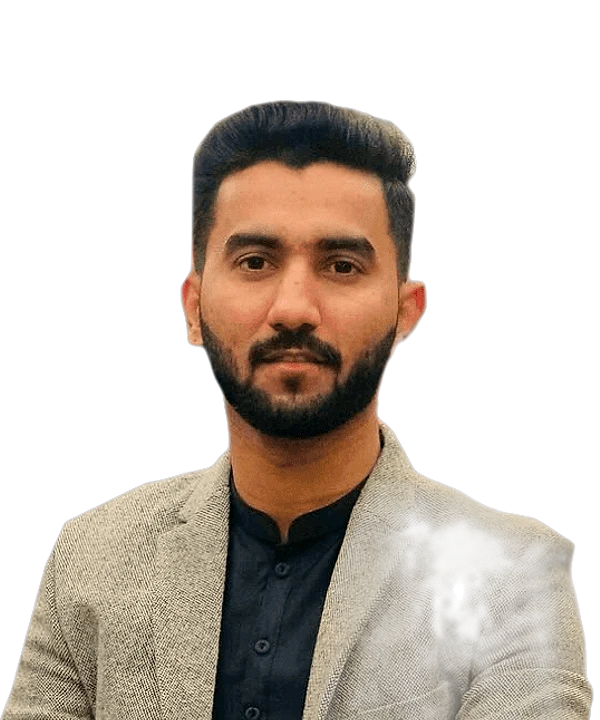
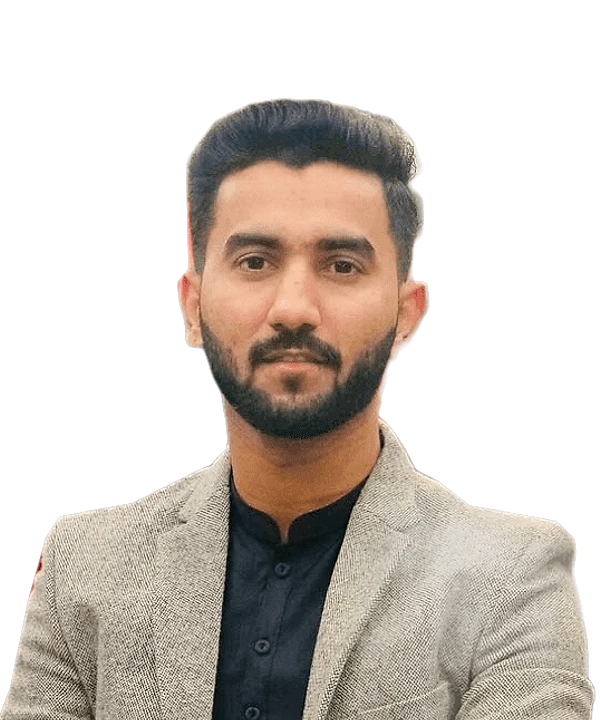
Brighten leadership portraits and restore full face and shoulder outlines

diff --git a/about.html b/about.html
@@ -113,7 +113,7 @@
 
 <section class="sec sec--alt" id="team"><div class="wrap">
   <header class="sec__head"><p class="label"><span data-i18n="tm.eyebrow">Leadership</span></p><h2 class="split " data-i18n="tm.h2">Meet the team behind IT Oasis</h2></header>
-  <div class="team"><article class="person reveal" data-d="0"><div class="person__photo"><img src="assets/team-irfan.webp" alt="Muhammad Irfan" width="600" height="720" loading="lazy"></div><div class="person__info"><h3>Muhammad Irfan</h3><p data-i18n="tm.1.r" class="person__role">Founder</p><p data-i18n="tm.1.d" class="person__bio">Founded IT Oasis UAE to bring practical, well-engineered technology to GCC businesses.</p></div></article><article class="person reveal" data-d="1"><div class="person__photo"><img src="assets/team-zeeshan.webp" alt="Muhammad Zeeshan" width="600" height="720" loading="lazy"></div><div class="person__info"><h3>Muhammad Zeeshan</h3><p data-i18n="tm.2.r" class="person__role">CEO</p><p data-i18n="tm.2.d" class="person__bio">Leads delivery and client partnerships, making sure every project ties technology to business results.</p></div></article><article class="person reveal" data-d="2"><div class="person__photo"><img src="assets/team-fahad.webp" alt="Rana Muhammad Fahad" width="600" height="720" loading="lazy"></div><div class="person__info"><h3>Rana Muhammad Fahad</h3><p data-i18n="tm.3.r" class="person__role">CTO</p><p data-i18n="tm.3.d" class="person__bio">Architects the systems behind our clients: networks, platforms, automation and AI infrastructure.</p></div></article></div>
+  <div class="team"><article class="person reveal" data-d="0"><div class="person__photo person__photo--full"><img src="assets/team-irfan.webp" alt="Muhammad Irfan" width="600" height="720" loading="lazy"></div><div class="person__info"><h3>Muhammad Irfan</h3><p data-i18n="tm.1.r" class="person__role">Founder</p><p data-i18n="tm.1.d" class="person__bio">Founded IT Oasis UAE to bring practical, well-engineered technology to GCC businesses.</p></div></article><article class="person reveal" data-d="1"><div class="person__photo person__photo--full"><img src="assets/team-zeeshan.webp" alt="Muhammad Zeeshan" width="600" height="720" loading="lazy"></div><div class="person__info"><h3>Muhammad Zeeshan</h3><p data-i18n="tm.2.r" class="person__role">CEO</p><p data-i18n="tm.2.d" class="person__bio">Leads delivery and client partnerships, making sure every project ties technology to business results.</p></div></article><article class="person reveal" data-d="2"><div class="person__photo"><img src="assets/team-fahad.webp" alt="Rana Muhammad Fahad" width="600" height="720" loading="lazy"></div><div class="person__info"><h3>Rana Muhammad Fahad</h3><p data-i18n="tm.3.r" class="person__role">CTO</p><p data-i18n="tm.3.d" class="person__bio">Architects the systems behind our clients: networks, platforms, automation and AI infrastructure.</p></div></article></div>
 </div></section>
 
 <section class="sec sec--ink geo-sec"><div class="wrap geo">

diff --git a/styles.css b/styles.css
@@ -421,6 +421,7 @@ html[dir="rtl"] #railNext { --dir: -1; } html[dir="rtl"] #railPrev { --dir: 1; }
 .person__photo img { display: block; width: 100%; height: auto; transition: transform .8s var(--ease); transform-origin: 50% 35%; }
 .person:hover .person__photo img { transform: scale(1.04); }
 .person__photo::after { content: ""; position: absolute; inset: 0; background: linear-gradient(180deg, transparent 58%, var(--surface) 92%); }
+.person__photo--full::after { background: linear-gradient(180deg, transparent 72%, var(--surface) 95%); }
 .person__info { position: relative; padding: 0 24px 26px; margin-top: -30px; }
 .person h3 { font-size: 22px; }
 .person__role { margin: 5px 0 11px; color: var(--orange); font-size: 18px; font-weight: 600; }
